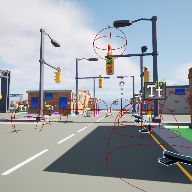
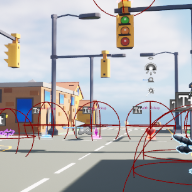
[Section 12][Lag compensation] Limiting Server-Side rewind

diff --git a/Source/ShooterJam/Public/Weaponry/WeaponBase.h b/Source/ShooterJam/Public/Weaponry/WeaponBase.h
@@ -111,7 +111,7 @@ protected:
 	UPROPERTY(EditAnywhere, Category = "Weapon Properties")
 	float BaseDamage{ 20.f };
 
-	UPROPERTY(EditAnywhere, Category = "Weapon Properties")
+	UPROPERTY(EditAnywhere, Category = "Weapon Properties", Replicated)
 	bool bUseServerSideRewind{ false };
 
 	UPROPERTY(EditAnywhere, Category = "Weapon Properties")
@@ -214,7 +214,7 @@ protected:
 
 	virtual void DealDamage(const FHitResult& HitResult, const FVector_NetQuantize& TraceStart);
 
-//public getters
+//public getters/setters
 public:
 	FORCEINLINE bool IsEmpty() const { return Ammo <= 0; }
 	FORCEINLINE bool IsFull() const { return GetWeaponAmmo() == GetMagCapacity(); }
@@ -242,8 +242,9 @@ public:
 	TArray<FVector> GetHitTargets(const FVector& InTraceStart, const FVector& InDirection) const;
 	TArray<FVector_NetQuantize> GetHitTargetsNet(const FVector InTraceStart, const FVector InDirection) const;
 
-	void SetIsDestroyAfterDeath(bool bInIsDestroy);
-	void AddHitTarget(const FVector& InHitTarget);
-	void AddHitTarget(const FVector_NetQuantize& InHitTarget);
+	FORCEINLINE void SetIsDestroyAfterDeath(bool bInIsDestroy) { bIsDestroyAfterDeath = bInIsDestroy; }
+	FORCEINLINE void AddHitTarget(const FVector& InHitTarget) { HitTargets.Add(InHitTarget); }
+	FORCEINLINE void AddHitTarget(const FVector_NetQuantize& InHitTarget) { HitTargets.Add(InHitTarget); }
 	void AddHitTarget(const TArray<FVector_NetQuantize>& InHitTarget);
+	FORCEINLINE void SetUseSsr(bool bInUseSsr) { bUseServerSideRewind = bInUseSsr; }
 };

diff --git a/Source/ShooterJam/Private/PlayerControllers/ShooterCharacterController.cpp b/Source/ShooterJam/Private/PlayerControllers/ShooterCharacterController.cpp
@@ -40,9 +40,13 @@ void AShooterCharacterController::CheckPing(float InDeltaTime)
 			return;
 	}
 
+	UE_LOG(LogTemp, Warning, TEXT("Player ping: %.0f"), PlayerState->GetPingInMilliseconds());
+
 	if (PlayerState->GetPingInMilliseconds() < HighPingTreshold)
 	{
 		CheckPingTimer = CheckPingTime;
+
+		Server_ReportPingStatus(false);
 		return;
 	}
 
@@ -50,6 +54,8 @@ void AShooterCharacterController::CheckPing(float InDeltaTime)
 		return;
 
 	GetPlayerHud()->ShowPingAnimation();
+
+	Server_ReportPingStatus(true);
 
 	PingWarningTimer = PingWarningDuration;
 	CheckPingTimer = CheckPingTime;
@@ -168,6 +174,11 @@ void AShooterCharacterController::Server_RequestGameSettings_Implementation()
 	MatchState = GameMode->GetMatchState();
 
 	Client_ReportGameSettings(MatchState, WarmupDuration, MatchDuration, CooldownDuration, LevelStartingTime);
+}
+
+void AShooterCharacterController::Server_ReportPingStatus_Implementation(bool bHighPing)
+{
+	OnTooHighPingDelegate.Broadcast(bHighPing);
 }
 
 void AShooterCharacterController::Client_ReportGameSettings_Implementation(FName InMatchState, float InWarmupDuration, float InMatchDuration, float InCooldownDuration, float InLevelStartingTime)

diff --git a/Source/ShooterJam/Private/Weaponry/WeaponBase.cpp b/Source/ShooterJam/Private/Weaponry/WeaponBase.cpp
@@ -383,21 +383,6 @@ TArray<FVector_NetQuantize> AWeaponBase::GetHitTargetsNet(const FVector InTraceS
 	return CurrHitTargets;
 }
 
-void AWeaponBase::SetIsDestroyAfterDeath(bool bInIsDestroy)
-{
-	bIsDestroyAfterDeath = bInIsDestroy;
-}
-
-void AWeaponBase::AddHitTarget(const FVector& InHitTarget)
-{
-	HitTargets.Add(InHitTarget);
-}
-
-void AWeaponBase::AddHitTarget(const FVector_NetQuantize& InHitTarget)
-{
-	HitTargets.Add(InHitTarget);
-}
-
 void AWeaponBase::AddHitTarget(const TArray<FVector_NetQuantize>& InHitTargets)
 {
 	for (int32 i = 0; i < InHitTargets.Num(); ++i)
@@ -446,6 +431,8 @@ void AWeaponBase::GetLifetimeReplicatedProps(TArray<FLifetimeProperty>& OutLifet
 	Super::GetLifetimeReplicatedProps(OutLifetimeProps);
 
 	DOREPLIFETIME(AWeaponBase, WeaponState);
+	DOREPLIFETIME_CONDITION(AWeaponBase, bUseServerSideRewind, COND_OwnerOnly);
+
 }
 
 void AWeaponBase::ShowPickUpWidget(bool bShowWidget)

diff --git a/Source/ShooterJam/Private/Characters/ShooterCharacter.cpp b/Source/ShooterJam/Private/Characters/ShooterCharacter.cpp
@@ -262,6 +262,14 @@ void AShooterCharacter::OnReceiveDamage(AActor* DamagedActor, float Damage, cons
 	GameMode->OnPlayerEliminated(this, PlayerController, AttackerController);
 }
 
+void AShooterCharacter::OnPingTooHigh(bool bInIsTooHighPing)
+{
+	if (!CombatComponent)
+		return;
+
+	CombatComponent->SetWeaponsUseSsr(!bInIsTooHighPing);
+}
+
 void AShooterCharacter::OnEliminatedTimerFinished()
 {
 	AShooterGameMode* GameMode = GetShooterGameMode();
@@ -548,6 +556,14 @@ void AShooterCharacter::PollInitPlayerController()
 		return;
 
 	PlayerController = GetController<AShooterCharacterController>();
+
+	if (!PlayerController)
+		return;
+
+	if (!PlayerController->OnTooHighPingDelegate.IsBound() && HasAuthority())
+	{
+		PlayerController->OnTooHighPingDelegate.AddDynamic(this, &AShooterCharacter::OnPingTooHigh);
+	}
 }
 
 void AShooterCharacter::PollInitPlayerHud()

diff --git a/Source/ShooterJam/Public/PlayerControllers/ShooterCharacterController.h b/Source/ShooterJam/Public/PlayerControllers/ShooterCharacterController.h
@@ -10,6 +10,8 @@
 class AShooterHUD;
 class AShooterCharacter;
 
+DECLARE_DYNAMIC_MULTICAST_DELEGATE_OneParam(FOnPingTooHigh, bool, isTooHighPing);
+
 /**
  * 
  */
@@ -17,6 +19,10 @@ UCLASS()
 class SHOOTERJAM_API AShooterCharacterController : public APlayerController
 {
 	GENERATED_BODY()
+
+//public fields
+public:
+	FOnPingTooHigh OnTooHighPingDelegate;
 
 //private fields
 private:
@@ -98,6 +104,10 @@ private:
 		Used to deliver settings for server's version of a character */
 	UFUNCTION(Server, Reliable)
 	void Server_RequestGameSettings();
+
+	/** Reports to server, if local ping is too high */
+	UFUNCTION(Server, Reliable)
+	void Server_ReportPingStatus(bool bHighPing);
 
 	/**  Same as Server_RequestGameSettings, but delivers settings from server's to client's version of a character */
 	UFUNCTION(Client, Reliable)

diff --git a/Source/ShooterJam/Public/Characters/ShooterCharacter.h b/Source/ShooterJam/Public/Characters/ShooterCharacter.h
@@ -252,10 +252,10 @@ private:
 	UFUNCTION()
 	void OnRep_Shield(float LastShield);
 	virtual void OnRep_ReplicatedMovement() override;
-
 	UFUNCTION()
 	void OnReceiveDamage(AActor* DamagedActor, float Damage, const UDamageType* DamageTypem, class AController* InstigatorController, AActor* DamageCauser);
-	
+	UFUNCTION()
+	void OnPingTooHigh(bool bInIsTooHighPing);
 	void OnEliminatedTimerFinished();
 	UFUNCTION()
 	void TimelineUpdateDissolveMaterial(float InDissolveValue);

diff --git a/Source/ShooterJam/Private/Components/CombatComponent.cpp b/Source/ShooterJam/Private/Components/CombatComponent.cpp
@@ -462,6 +462,18 @@ void UCombatComponent::SetHitTarget(const FVector& TraceHitTarget)
 	HitTarget = TraceHitTarget;
 }
 
+void UCombatComponent::SetWeaponsUseSsr(bool bInUseSsr)
+{
+	if (EquippedWeapon)
+	{
+		EquippedWeapon->SetUseSsr(bInUseSsr);
+	}
+	if (SecondaryWeapon)
+	{
+		SecondaryWeapon->SetUseSsr(bInUseSsr);
+	}
+}
+
 void UCombatComponent::OnRep_EquippedWeapon()
 {
 	if (!Character)

diff --git a/Source/ShooterJam/Public/Components/CombatComponent.h b/Source/ShooterJam/Public/Components/CombatComponent.h
@@ -258,8 +258,8 @@ public:
 	FORCEINLINE AWeaponBase* GetEquippedWeapon() const { return EquippedWeapon; }
 	FORCEINLINE AWeaponBase* GetSecondaryWeapon() const { return SecondaryWeapon; }
 
-
 	void SetIsAiming(bool bInIsAiming);
 	void SetIsFiring(bool bInIsFiring);
 	void SetHitTarget(const FVector& TraceHitTarget);
+	void SetWeaponsUseSsr(bool bInUseSsr);
 };
